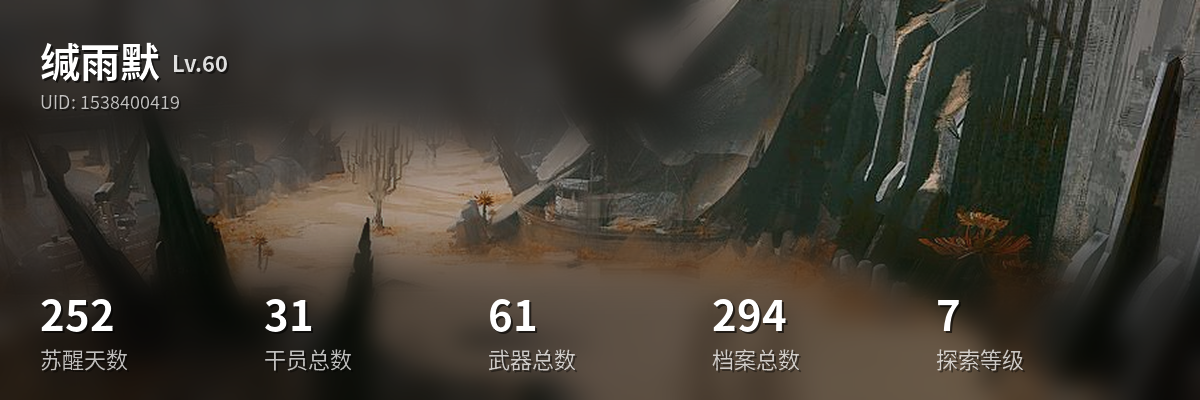
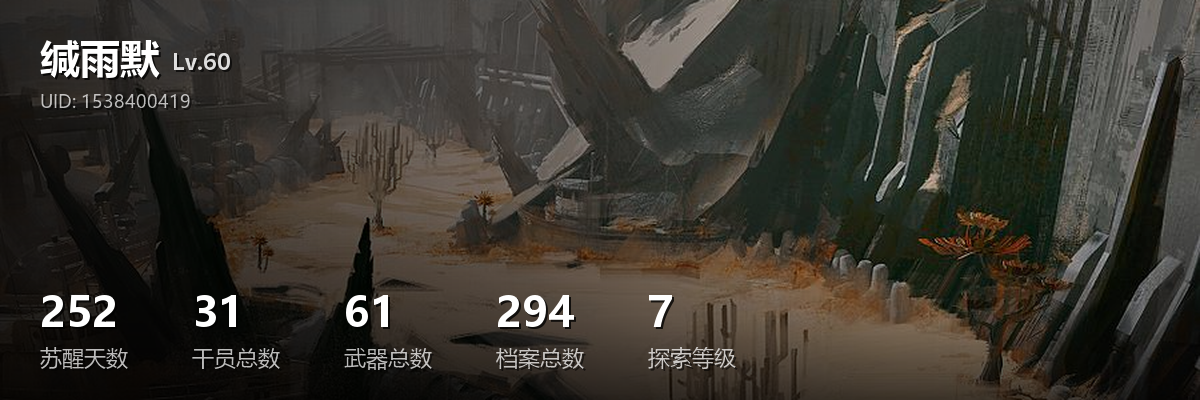
style(profile): 移除毛玻璃效果并将底部数据行收紧
- 去掉文字区域的局部模糊与压暗面板，底图全幅保持清晰

- 可读性改由左侧渐隐 + 底部渐隐 + 更重的文字投影保证

- 数据行由均分全宽改为等宽列紧凑左排，列宽 152px，右侧留给立绘

diff --git a/scripts/render.py b/scripts/render.py
@@ -4,17 +4,16 @@
   - 一张游戏立绘铺满整张卡作为底图
   - 只用白色文字，不加任何色块、边框、图标
   - 左上角：昵称 + Lv.xx，下一行 UID
-  - 底部：一排「大号数字 + 小标签」
-  - 可读性靠的是「文字区域局部模糊 + 柔化压暗」，而不是把整张图压黑：
-    在昵称区和数据行下面做一块边缘羽化的毛玻璃，底图其余部分保持清晰
+  - 底部：一排「大号数字 + 小标签」，等宽列从左侧紧凑排列，右侧留给立绘
+  - 可读性靠「左侧渐隐 + 底部渐隐 + 文字投影」，不做任何模糊处理
 
 底图放在 assets/ 下，命名 arknights-bg.* / endfield-bg.*（png/jpg/webp 均可）。
-建议提供 3:1 的宽图；若不是 3:1，会以右侧为锚点裁切（左侧本就被处理过）。
+建议提供 3:1 的宽图；若不是 3:1，会以右侧为锚点裁切（左侧本就被渐隐处理）。
 """
 
 import os
 
-from PIL import Image, ImageDraw, ImageFilter, ImageFont
+from PIL import Image, ImageDraw, ImageFont
 
 # ---------- 画布 ----------
 CARD_W = 1200
@@ -31,24 +30,17 @@ STAT_NUMBER_Y = 282
 STAT_NUMBER_SIZE = 42
 STAT_LABEL_Y = 342
 STAT_LABEL_SIZE = 22
+STAT_COLUMN_WIDTH = 152  # 每个数据项的等宽列宽：等宽保证对齐，收窄保证紧凑
 
 WHITE = (255, 255, 255)
-SHADOW_ALPHA = 150
+SHADOW_ALPHA = 200
 SHADOW_OFFSET = 2
 
-# ---------- 文字区域的局部模糊（保证白字可读） ----------
-# 昵称 + UID 所在区域，以及底部数据行所在区域
-# 面板刻意向画布外扩，只让朝内的边缘羽化，避免画布边角出现生硬的圆角
-TEXT_PANELS = [
-    (-80, -80, 720, 152),
-    (-80, 250, CARD_W + 80, CARD_H + 80),
-]
-PANEL_FEATHER = 30      # 面板边缘羽化半径，避免出现生硬的矩形边界
-TEXT_BLUR_RADIUS = 12   # 面板内的模糊强度
-TEXT_SHADE = 0.52       # 面板内的压暗强度（0 不压暗，1 全黑）
-
-# 全局只保留一层很轻的左侧渐隐，保证整体视觉不失衡
-GLOBAL_FADE = [(0.0, 0.46), (0.5, 0.20), (1.0, 0.02)]
+# ---------- 渐隐遮罩（保证白字可读） ----------
+# 左侧横向渐隐：昵称、UID 和整排数据都落在这一侧
+LEFT_FADE = [(0.0, 0.80), (0.42, 0.52), (0.75, 0.12), (1.0, 0.03)]
+# 底部纵向渐隐：托住最下面一排数字（比例从底部 0 到顶部 1）
+BOTTOM_FADE = [(0.0, 0.72), (0.20, 0.38), (0.52, 0.0)]
 
 # 字体候选：优先用 workflow 下载的思源黑体，其次回退到系统字体（便于本机调试）
 FONT_PATHS = [
@@ -110,13 +102,16 @@ def _horizontal_fade(width, height, stops):
     return row.resize((width, height))
 
 
-def _soft_mask(size, boxes, feather):
-    """把若干矩形做成一张边缘羽化的遮罩，用于限定局部模糊的范围。"""
-    mask = Image.new("L", size, 0)
-    draw = ImageDraw.Draw(mask)
-    for box in boxes:
-        draw.rounded_rectangle(box, radius=28, fill=255)
-    return mask.filter(ImageFilter.GaussianBlur(feather))
+def _vertical_fade(width, height, stops):
+    """从下到上的黑色渐隐遮罩，托住底部一排数字。"""
+    column = Image.new("RGBA", (1, height))
+    pixels = column.load()
+    for y in range(height):
+        # 比例从底部 0 到顶部 1
+        ratio = 1 - y / max(1, height - 1)
+        alpha = int(255 * _lerp_stops(stops, ratio))
+        pixels[0, y] = (0, 0, 0, max(0, min(255, alpha)))
+    return column.resize((width, height))
 
 
 def _cover(image, size, anchor="right"):
@@ -159,17 +154,9 @@ def _base_canvas(bg_path):
             pixels[0, y] = (shade, shade + 4, shade + 10, 255)
         canvas = top.resize((CARD_W, CARD_H))
 
-    # 一层很轻的整体左侧渐隐
-    canvas.alpha_composite(_horizontal_fade(CARD_W, CARD_H, GLOBAL_FADE))
-
-    # 文字区域：局部模糊 + 柔化压暗，其余部分保持清晰
-    mask = _soft_mask((CARD_W, CARD_H), TEXT_PANELS, PANEL_FEATHER)
-    blurred = canvas.filter(ImageFilter.GaussianBlur(TEXT_BLUR_RADIUS))
-    canvas = Image.composite(blurred, canvas, mask)
-
-    shade = Image.new("RGBA", (CARD_W, CARD_H), (0, 0, 0, 0))
-    shade.putalpha(mask.point(lambda value: int(value * TEXT_SHADE)))
-    canvas.alpha_composite(shade)
+    # 左侧渐隐 + 底部渐隐
+    canvas.alpha_composite(_horizontal_fade(CARD_W, CARD_H, LEFT_FADE))
+    canvas.alpha_composite(_vertical_fade(CARD_W, CARD_H, BOTTOM_FADE))
     return canvas
 
 
@@ -230,10 +217,9 @@ def render_card(out_path, game, nickname, level, uid, raw_stats):
 
     # ---- 底部：一排「大号数字 + 小标签」 ----
     if stats:
-        # 等宽列：把内容区均分，保证每一项占据同样的宽度、整排左边缘与上方昵称对齐
-        pitch = (CARD_W - PAD * 2) / len(stats)
+        # 等宽列从左侧紧凑排列：列宽固定保证对齐，不铺满卡片，右侧留给立绘
         for index, (label, value) in enumerate(stats):
-            x = int(PAD + index * pitch)
+            x = PAD + index * STAT_COLUMN_WIDTH
             put(x, STAT_NUMBER_Y, value, font_number, 255)
             put(x, STAT_LABEL_Y, label, font_label, 185)
 
